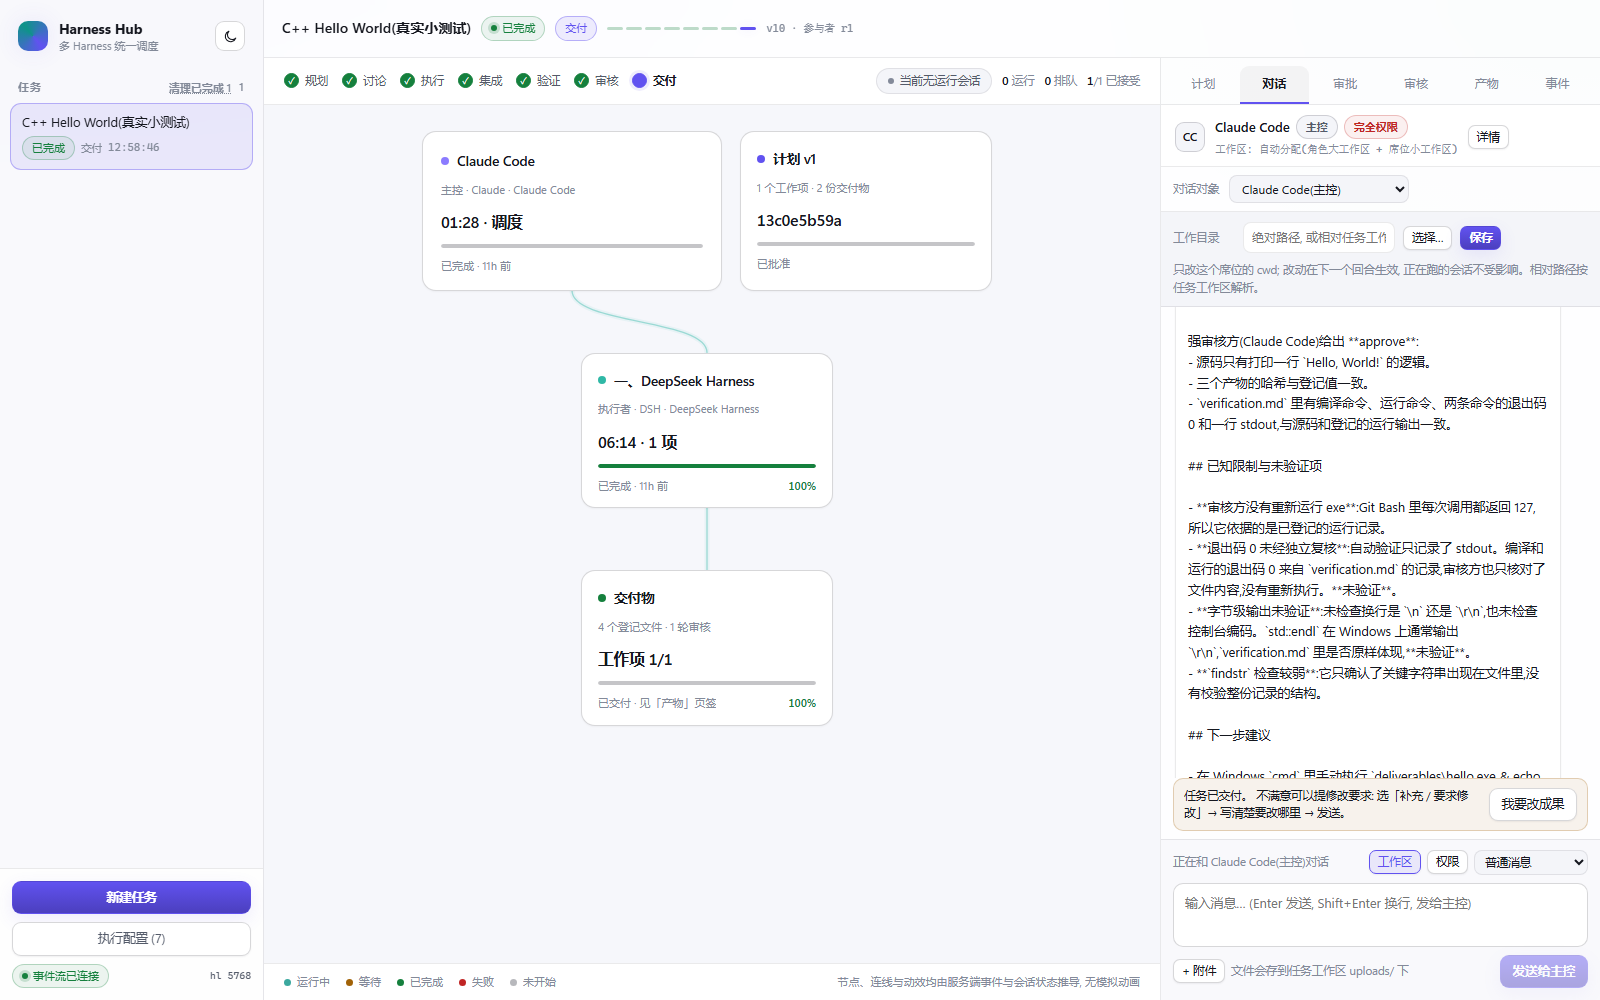
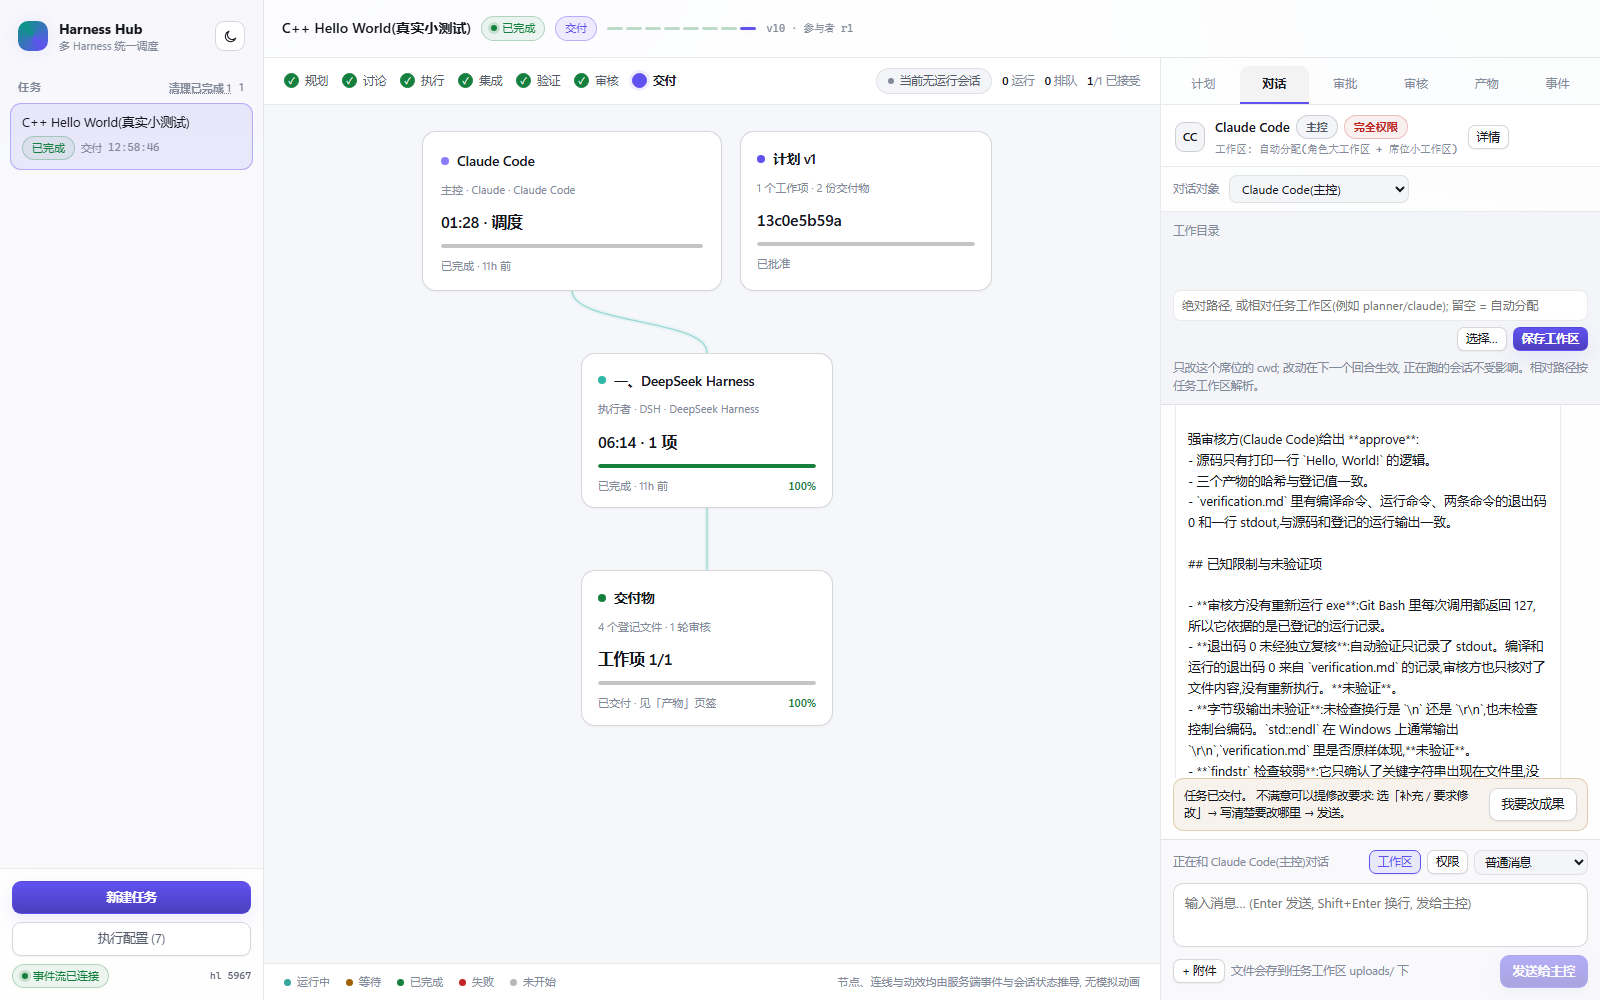
feat(web): save seat workspace and permission independently, and give the workspace input its own row

Changed region(s): [[0.7188, 0.217, 1.0, 0.775]]

diff --git a/apps/web/src/components/Conversation.tsx b/apps/web/src/components/Conversation.tsx
@@ -176,7 +176,8 @@ export function Conversation({
     }
   };
 
-  const saveSettings = async () => {
+  // 两个面板各自只提交自己的字段: 后端把 undefined 当"不改", 所以互不影响
+  const saveWorkspace = async () => {
     if (!current) return;
     setSaving(true);
     setErr(null);
@@ -185,12 +186,25 @@ export function Conversation({
       const ws = wsDraft.trim();
       const res = await api.updateParticipant(detail.task.id, current.id, {
         workspaceRoot: ws.length > 0 ? ws : null,
-        sandbox: sandboxDraft,
       });
       const resolved = (res.participant as { workspaceRoot?: string | null }).workspaceRoot;
-      setNotice(
-        `已保存。${resolved ? `工作目录: ${resolved}` : '工作目录已回到自动分配'} · 权限: ${SANDBOX_LABEL[sandboxDraft]}。改动在下一个回合生效。`,
-      );
+      setNotice(resolved ? `工作目录已保存: ${resolved}, 下一个回合生效。` : '工作目录已回到自动分配, 下一个回合生效。');
+      onChanged();
+    } catch (e) {
+      setErr(e instanceof Error ? e.message : String(e));
+    } finally {
+      setSaving(false);
+    }
+  };
+
+  const savePermission = async () => {
+    if (!current) return;
+    setSaving(true);
+    setErr(null);
+    setNotice(null);
+    try {
+      await api.updateParticipant(detail.task.id, current.id, { sandbox: sandboxDraft });
+      setNotice(`权限已保存: ${SANDBOX_LABEL[sandboxDraft]}, 下一个回合生效。`);
       onChanged();
     } catch (e) {
       setErr(e instanceof Error ? e.message : String(e));
@@ -266,20 +280,23 @@ export function Conversation({
 
       {openPanel === 'ws' && current ? (
         <div className="conv-settings">
-          <div className="cs-row">
+          <div className="cs-row cs-row-stack">
             <span className="cs-label">工作目录</span>
-            <div className="field-pick">
+            <div className="cs-fields">
               <input
+                className="cs-input"
                 value={wsDraft}
                 placeholder="绝对路径, 或相对任务工作区(例如 planner/claude); 留空 = 自动分配"
                 onChange={(e) => setWsDraft(e.target.value)}
               />
-              <button type="button" className="btn tiny" onClick={() => setPickingWs(true)}>
-                选择…
-              </button>
-              <button className="btn primary tiny" disabled={saving} onClick={() => void saveSettings()}>
-                {saving ? '保存中…' : '保存'}
-              </button>
+              <div className="cs-actions">
+                <button type="button" className="btn tiny" onClick={() => setPickingWs(true)}>
+                  选择…
+                </button>
+                <button className="btn primary tiny" disabled={saving} onClick={() => void saveWorkspace()}>
+                  {saving ? '保存中…' : '保存工作区'}
+                </button>
+              </div>
             </div>
           </div>
           <p className="small muted cs-hint">
@@ -300,8 +317,8 @@ export function Conversation({
                 </option>
               ))}
             </select>
-            <button className="btn primary tiny" disabled={saving} onClick={() => void saveSettings()}>
-              {saving ? '保存中…' : '保存'}
+            <button className="btn primary tiny" disabled={saving} onClick={() => void savePermission()}>
+              {saving ? '保存中…' : '保存权限'}
             </button>
           </div>
           <p className="small muted cs-hint">
@@ -408,7 +425,10 @@ export function Conversation({
               type="button"
               className={`btn tiny ${openPanel === 'ws' ? 'on' : ''}`}
               title="改这个席位的工作目录"
-              onClick={() => setOpenPanel((v) => (v === 'ws' ? 'none' : 'ws'))}
+              onClick={() => {
+                setNotice(null);
+                setOpenPanel((v) => (v === 'ws' ? 'none' : 'ws'));
+              }}
             >
               工作区
             </button>
@@ -416,7 +436,10 @@ export function Conversation({
               type="button"
               className={`btn tiny ${openPanel === 'perm' ? 'on' : ''}`}
               title="改这个席位的会话权限"
-              onClick={() => setOpenPanel((v) => (v === 'perm' ? 'none' : 'perm'))}
+              onClick={() => {
+                setNotice(null);
+                setOpenPanel((v) => (v === 'perm' ? 'none' : 'perm'));
+              }}
             >
               权限
             </button>

diff --git a/apps/web/src/styles.css b/apps/web/src/styles.css
@@ -2961,3 +2961,27 @@ a.link:hover {
   color: var(--accent);
   background: var(--accent-soft);
 }
+
+.cs-row-stack {
+  align-items: stretch;
+  flex-direction: column;
+  gap: 6px;
+}
+
+.cs-fields {
+  display: flex;
+  flex-direction: column;
+  gap: 6px;
+  min-width: 0;
+}
+
+.cs-input {
+  width: 100%;
+}
+
+.cs-actions {
+  display: flex;
+  align-items: center;
+  gap: 6px;
+  justify-content: flex-end;
+}
